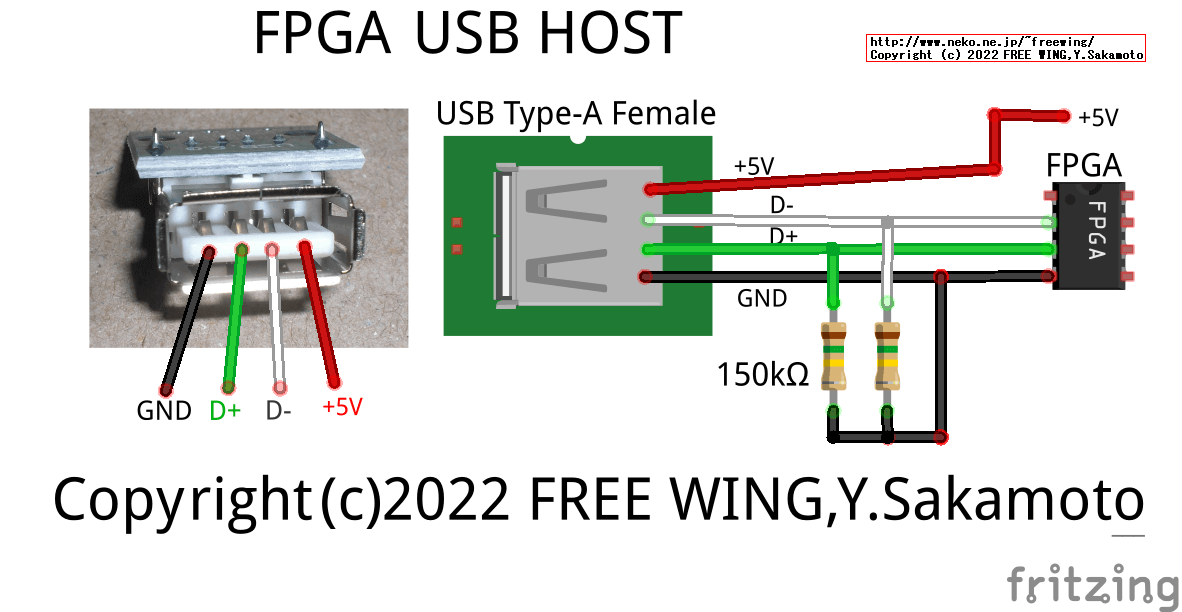
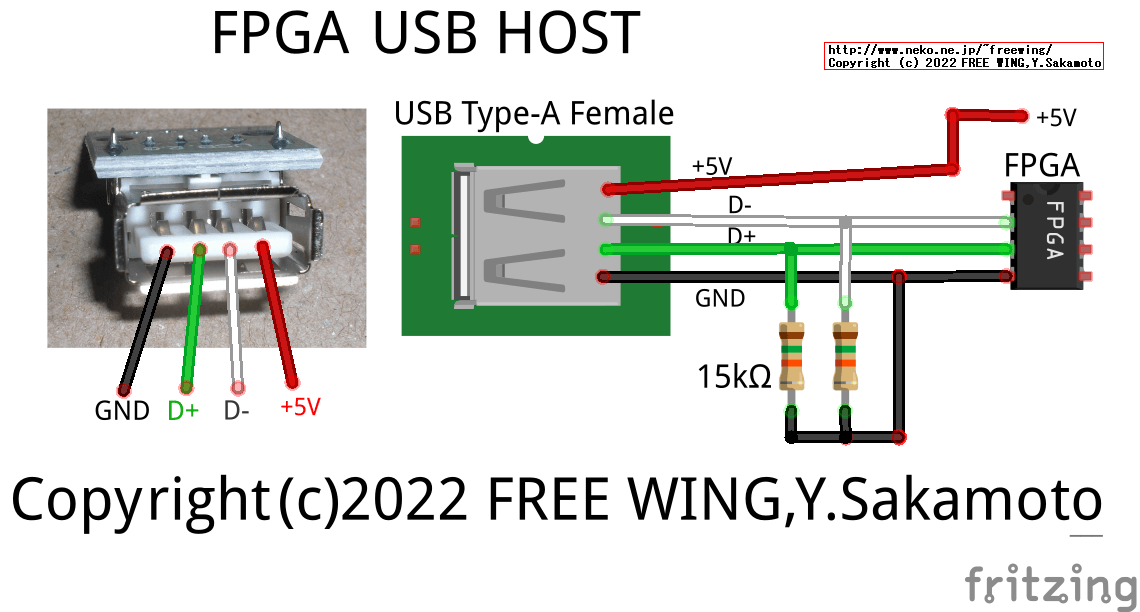
fix USB Pulldown register value

diff --git a/README.md b/README.md
@@ -65,7 +65,7 @@ Support Low Speed USB Gamepad only .
 
 ![usb 1](https://raw.githubusercontent.com/FREEWING-JP/fpga_nes/feature/support_usb_gamepad/assets/usb_host_fpga_schematics.png)  
 ![usb 2](https://raw.githubusercontent.com/FREEWING-JP/fpga_nes/feature/support_usb_gamepad/assets/usb_host_fpga_18.jpg)  
-I don't have 150k ohm resistor . So I use 220k ohm .  
+I don't have 15k ohm resistor . So I use 22k ohm .  
 ![usb 3](https://raw.githubusercontent.com/FREEWING-JP/fpga_nes/feature/support_usb_gamepad/assets/usb_connector_pin_assign.jpg)  
 ![usb 4](https://raw.githubusercontent.com/FREEWING-JP/fpga_nes/feature/support_usb_gamepad/assets/buffalo_bsgp815gy_usb_gamepad_1.jpg)  
 BUFFALO model BSGP815GY CLASSIC USB GAMEPAD  
